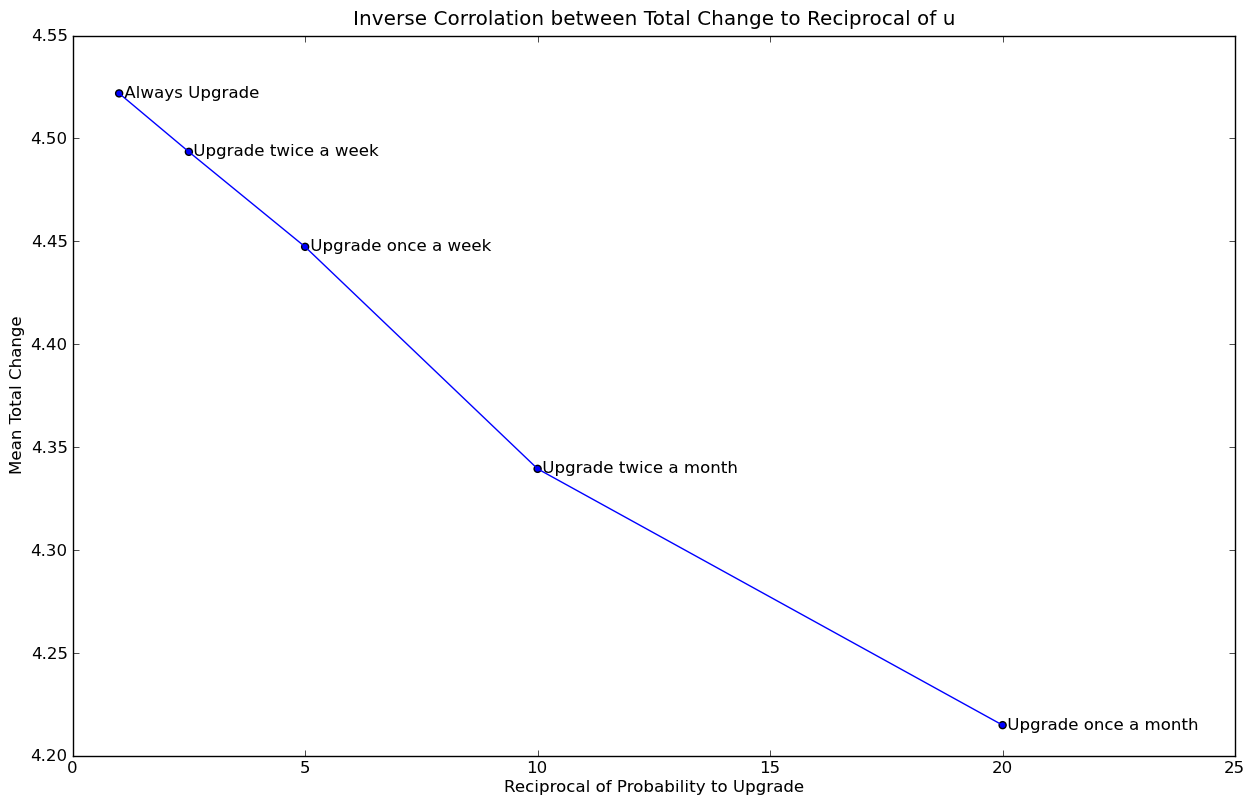
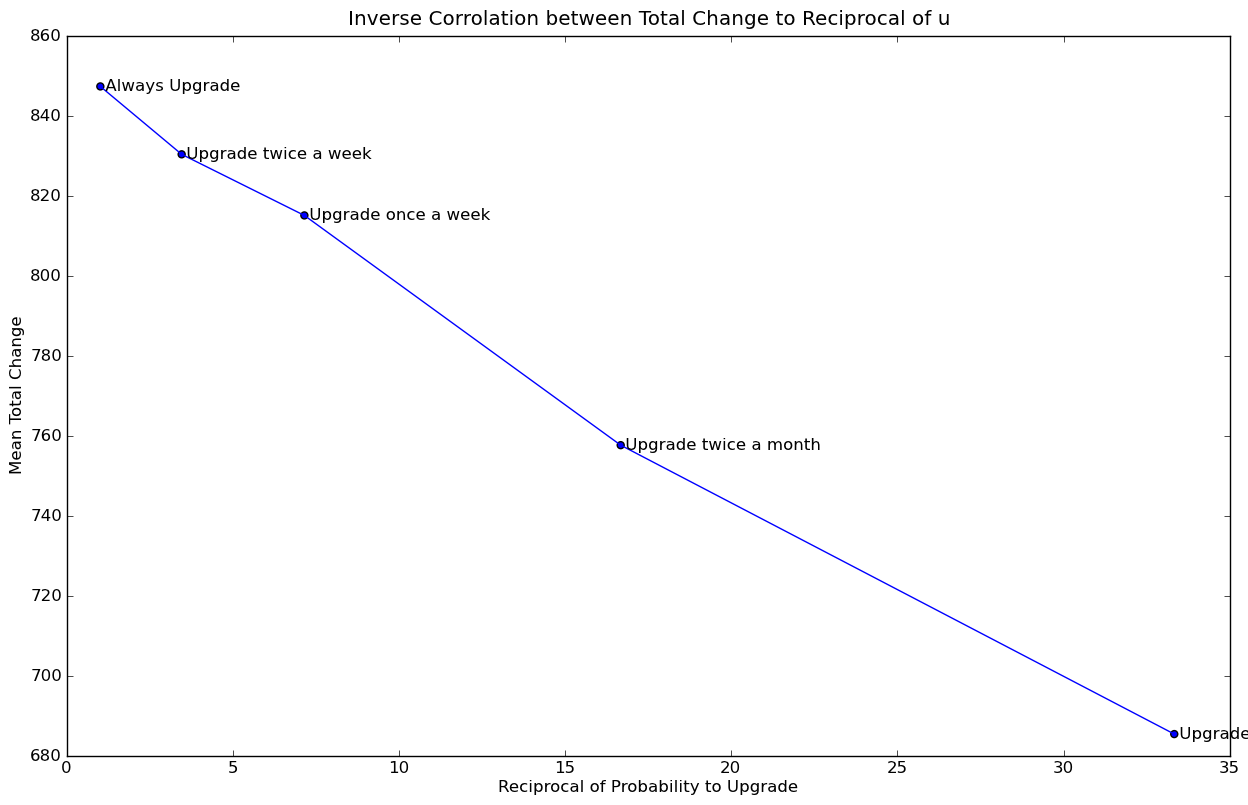
counting is fun

diff --git a/UbuntuSimulationAnalysis/aq1c.py b/UbuntuSimulationAnalysis/aq1c.py
@@ -11,23 +11,17 @@ from analysisutils import *
 
 folder = "cache/q1c"
 files = map(lambda x : os.path.join(folder,x),os.listdir(folder))
-p0 = filter(lambda x : os.path.basename(x).startswith("i0.05"),files);
-p1 = filter(lambda x : os.path.basename(x).startswith("i0.1"),files);
-p2 = filter(lambda x : os.path.basename(x).startswith("i0.2"),files);
-p3 = filter(lambda x : os.path.basename(x).startswith("i0.3"),files);
-p4 = filter(lambda x : os.path.basename(x).startswith("i0.4"),files);
-p5 = filter(lambda x : os.path.basename(x).startswith("i0.5"),files);
-p6 = filter(lambda x : os.path.basename(x).startswith("i0.6"),files);
-p7 = filter(lambda x : os.path.basename(x).startswith("i0.7"),files);
-p8 = filter(lambda x : os.path.basename(x).startswith("i0.8"),files);
-p9 = filter(lambda x : os.path.basename(x).startswith("i0.9"),files);
+p0 = filter(lambda x : os.path.basename(x).startswith("i0.03"),files);
+p1 = filter(lambda x : os.path.basename(x).startswith("i0.06"),files);
+p2 = filter(lambda x : os.path.basename(x).startswith("i0.14"),files);
+p4 = filter(lambda x : os.path.basename(x).startswith("i0.29"),files);
 
 always = filter(lambda x : not os.path.basename(x).startswith("i0") and os.path.basename(x).startswith("i"),files);
 never = os.path.join(folder,"never.user")
 
-alll = always+p0+p1+p2+p3+p4+p5+p6+p7+p8+p9
+alll = always+p0+p1+p2+p4
 
-variables = [("Install every day",always,"#FF00FF"),("Install once a month",p0,"#FF0000"),("Install twice a month",p1,"#0000FF"),("Install once a week",p2,"#00EEFF"),("Install twice a week",p4,"#00FF00")]
+variables = [("Install once a month",p0,"#FF0000"),("Install twice a month",p1,"#0000FF"),("Install once a week",p2,"#00EEFF"),("Install twice a week",p4,"#00FF00"),("Install every day",always,"#FF00FF")]
 
 	
 def plotuttdpc():
@@ -71,7 +65,7 @@ def plotchange():
 		ivals = map(lambda x : chtt(x),pf)
 		imean,istd,imeanpstd,imeanmstd = multimeanstd(ivals)
 		mdiff = numpy.mean(imean)
-		print "Mean change",name,mdiff
+		print "Final change",name,imean[-1]
 		pylab.plot(pallthedays,imean,color=c,label=("Mean (+-1std) Total Change of 30 \"%s\" users" % name))
 	
 	pylab.legend(loc="upper left")

diff --git a/UbuntuSimulationAnalysis/usercache.py b/UbuntuSimulationAnalysis/usercache.py
@@ -16,6 +16,7 @@ print "Load init stuff"
 initsys = cudfpkg.createProfileChangeRequest("9.10.cudf",nameversiononly=True)
 allcomps = None
 
+uttddict = {}
 
 start = 1256814000 #one day before first action
 end = 1288410600
@@ -31,13 +32,21 @@ def doit(cudfs,userfile,reqComps=False):
 	if reqComps and allcomps == None:
 		print "load Allcomps"
 		allcomps = cudfpkg.createProfileChangeRequest("1288868400.0",nameversiononly=False)
+		generateUTTDDict(allcomps)
 	if cudfs == None:
 		cudfs = utils.processSolutionsFolder(userfile+".sols")
 		cudfs[start] = initsys #add original system
 	return cudfs
 	
 
-	
+def generateUTTDDict(allcomps):
+	print "Create UTTDDict"
+	for pn in allcomps.getPackageNames():
+		uttddict[pn] = {}
+		for package in sorted(allcomps.getPackagesThatSatisfy((pn,-1,"")), key=lambda x : -x.version):
+			pv = package.version
+			uttddict[pn][pv] = package.date
+				
 def cacheuser(userfile):
 	print "cache",userfile
 	cudfs = None
@@ -46,7 +55,7 @@ def cacheuser(userfile):
 	if not iscached(userfile,uttd):
 		cudfs = doit(cudfs,userfile,reqComps=True)
 		print "Add uptodate distance to ",userfile
-		cache(userfile,utils.getUptoDateDistance(start,end,cudfs,allcomps),uttd)
+		cache(userfile,utils.getUptoDateDistance(start,end,cudfs,uttddict),uttd)
 	
 	upd = "upd"
 	if not iscached(userfile,upd):
@@ -118,14 +127,14 @@ def getUsers(folder):
 	return filter(lambda x: x.endswith(".user"),map(lambda x : os.path.join(folder,x),os.listdir(folder)))
 	
 users = []
-#users += getUsers("q1c")
+users += getUsers("q1c")
 #users += getUsers("q2c") No need as it is only one part
 #users += getUsers("q3")
-#users += getUsers("q4a")
+users += getUsers("q4a")
 #users += getUsers("q1a")
-#users += getUsers("q1b")
+users += getUsers("q1b")
 #users += getUsers("q5a")
-users += getUsers("q6")
+#users += getUsers("q6")
 for u in sorted(users):
 	print u
 	cacheuser(u)

diff --git a/UbuntuSimulationAnalysis/aq4a.py b/UbuntuSimulationAnalysis/aq4a.py
@@ -12,14 +12,14 @@ from analysisutils import *
 folder = "cache/q4a"
 files = map(lambda x : os.path.join(folder,x),os.listdir(folder))
 
-modp0 = filter(lambda x : os.path.basename(x).startswith("modu0.05"),files);
-modp1 = filter(lambda x : os.path.basename(x).startswith("modu0.1"),files);
-modp2 = filter(lambda x : os.path.basename(x).startswith("modu0.2"),files);
-modp4 = filter(lambda x : os.path.basename(x).startswith("modu0.4"),files);
+modp0 = filter(lambda x : os.path.basename(x).startswith("modu0.03"),files);
+modp1 = filter(lambda x : os.path.basename(x).startswith("modu0.06"),files);
+modp2 = filter(lambda x : os.path.basename(x).startswith("modu0.14"),files);
+modp4 = filter(lambda x : os.path.basename(x).startswith("modu0.29"),files);
 
 
 
-variables = [("Progressive Upgrade twice a month",modp1,"#0000FF"),("Progressive Upgrade once a week",modp2,"#00EEFF"),("Progressive Upgrade twice a week",modp4,"#00FF00")]
+variables = [] #[("Progressive Upgrade twice a month",modp1,"#0000FF"),("Progressive Upgrade once a week",modp2,"#00EEFF"),("Progressive Upgrade twice a week",modp4,"#00FF00")]
 
 
 always = os.path.join(folder,"alwaysupdate.user")
@@ -123,8 +123,8 @@ def plotnew():
 	pylab.plot(pallthedays,nntal, color="black", label="Always Upgrade Mean change")
 	pylab.plot(pallthedays,nntmod, color="red", label="Always Upgrade Mean change")
 	
-	print "Last change always",nntal[-1]
-	print "Last change mod always",nntmod[-1]
+	print "Last new always",nntal[-1]
+	print "Last new mod always",nntmod[-1]
 	
 	pylab.legend(loc="upper left")
 

diff --git a/UbuntuSimulationAnalysis/utils.py b/UbuntuSimulationAnalysis/utils.py
@@ -131,22 +131,27 @@ def getMartin(G,cudf):
 
 
 
-def getUptoDateDistance(start,end,cudfs,allcomps):
+def getUptoDateDistance(start,end,cudfs,uttddict):
 	uttd = []
 	acudfs = getCudfs(start,end,cudfs)
 	k = len(acudfs)
 	for t,icudf in acudfs:
 		if k%30 == 0: print k
 		k -= 1
-		spcr = sliceCUDF(t,allcomps)
-		cudf = createFullCUDF(icudf,spcr)
 		total = 0
-		for pn in cudf.getPackageNames(onlyinstalled = True):
-			mv = 0
-			for pv in sorted(cudf.getPackagesThatSatisfy((pn,-1,"")), key=lambda x : -x.version):
-				if pv.installed:
-					total += mv	
-				mv += 1
+		for package in icudf.getUniverse():
+			allversions = uttddict[package.name].items()
+			#print package.nv(), "1", allversions
+			allversions = filter(lambda x: x[1] <= t,allversions)
+			#print package.nv(), "2", t,allversions
+			allversions = sorted(allversions,key = lambda x : -x[0])
+			#print package.nv(), "3", allversions
+			allversions = map(lambda x : x[0], allversions)
+			#print package.nv(), "4", allversions
+			mv = allversions.index(package.version)
+			#print package.nv(), "5", mv
+			
+			total += mv
 		uttd.append((t,total))
 	return uttd
 	

diff --git a/UbuntuSimulationAnalysis/aq6.py b/UbuntuSimulationAnalysis/aq6.py
@@ -48,8 +48,14 @@ lcs = [("Upgrade LC", lc, "#FF0000"),("Con. Upgrade LC", clc, "#00FF00"),("Pro. 
 # Low change  	0.18629183  0.08623483
 
 
+alll = hi+hu+lc+mc+chi+chu+clc+cmc+phi+phu+plc+pmc
 
-
+def softfailures():
+	uivals = zip(alll,map(lambda x : rempd(x),alll))
+	for name,ui in uivals:
+		for date, remv in zip(allthedays,ui):
+			if remv >= 100:
+				print date,datetime.date.fromtimestamp(date),name
 
 def plotuttdpc():
 	pylab.figure(1)
@@ -255,7 +261,7 @@ def plotchange():
 	
 	pylab.legend(loc="upper left")
 	pylab.title("Total Change of Users")
-	pylab.ylim([0,4000])
+	pylab.ylim([0,4250])
 	
 	pylab.subplot(312)
 	
@@ -275,7 +281,7 @@ def plotchange():
 	pylab.legend(loc="upper left")
 	pylab.ylabel("Total Change")
 	pylab.title("Total Change of \"Conservative\" Users")
-	pylab.ylim([0,4000])
+	pylab.ylim([0,4250])
 	
 	pylab.subplot(313)
 	
@@ -294,7 +300,7 @@ def plotchange():
 	pylab.legend(loc="upper left")
 	pylab.xlabel("Date")
 	pylab.title("Total Change of \"Progressive\" Users")
-	pylab.ylim([0,4000])
+	pylab.ylim([0,4250])
 	
 	saveFigure("q6userchange",size=(13,20))
 	

diff --git a/UbuntuSimulationAnalysis/aq1b.py b/UbuntuSimulationAnalysis/aq1b.py
@@ -11,10 +11,10 @@ from analysisutils import *
 
 folder = "cache/q1b"
 files = map(lambda x : os.path.join(folder,x),os.listdir(folder))
-p0 = filter(lambda x : os.path.basename(x).startswith("u0.05"),files);
-p1 = filter(lambda x : os.path.basename(x).startswith("u0.1"),files);
-p2 = filter(lambda x : os.path.basename(x).startswith("u0.2"),files);
-p4 = filter(lambda x : os.path.basename(x).startswith("u0.4"),files);
+p0 = filter(lambda x : os.path.basename(x).startswith("u0.03"),files);
+p1 = filter(lambda x : os.path.basename(x).startswith("u0.06"),files);
+p2 = filter(lambda x : os.path.basename(x).startswith("u0.14"),files);
+p4 = filter(lambda x : os.path.basename(x).startswith("u0.29"),files);
 
 always = os.path.join(folder,"alwaysupdate.user")
 never = os.path.join(folder,"never.user")

diff --git a/UbuntuSimulationAnalysis/aq5a.py b/UbuntuSimulationAnalysis/aq5a.py
@@ -20,8 +20,8 @@ con4week = os.path.join(folder,"alwaysupdate.2419200.user")
 
 always = os.path.join(folder,"alwaysupdate.user")
 
-variables = [("Always Upgrade",always,"black"),("Upgrade with 1 week SV",con1week,"#FF0000"),("Upgrade with 2 weeks SV",con2week,"#00FF00"),("Upgrade with 3 weeks SV",con3week,"#0000FF"),
-("Upgrade with 4 weeks SV",con4week,"#FF00FF")]
+variables = [("Always Upgrade",always,"black"),("7 Days SV Upgrade",con1week,"#FF0000"),("14 Days SV Upgrade",con2week,"#00FF00"),("21 Days SV Upgrade",con3week,"#0000FF"),
+("28 Days SV Upgrade",con4week,"#FF00FF")]
 
 
 def plotuttdpc():

diff --git a/UbuntuSimulationAnalysis/repeatedinstallsgraph.py b/UbuntuSimulationAnalysis/repeatedinstallsgraph.py
@@ -52,13 +52,16 @@ for i in range(len(up)):
 		for diff in range(i+1,len(up)):
 			if p in up[diff]:
 				daystill.append(diff-i)
+				if diff-i <= 7:
+					print p
 				break;
-		
-import pylab
-xy = []
-for l in range(1,60):
-	xy.append((l,len(groovy[l])))
 
-x,y = zip(*sorted(xy))
-pylab.plot(x,y)
-pylab.scatter(x,y)
+arr = [0]*(max(daystill)+1)
+
+for i in daystill:
+	arr[i] += 1
+	
+for i in range(40):
+	pass
+	#print i," sum", sum(arr[:i+1])
+	
